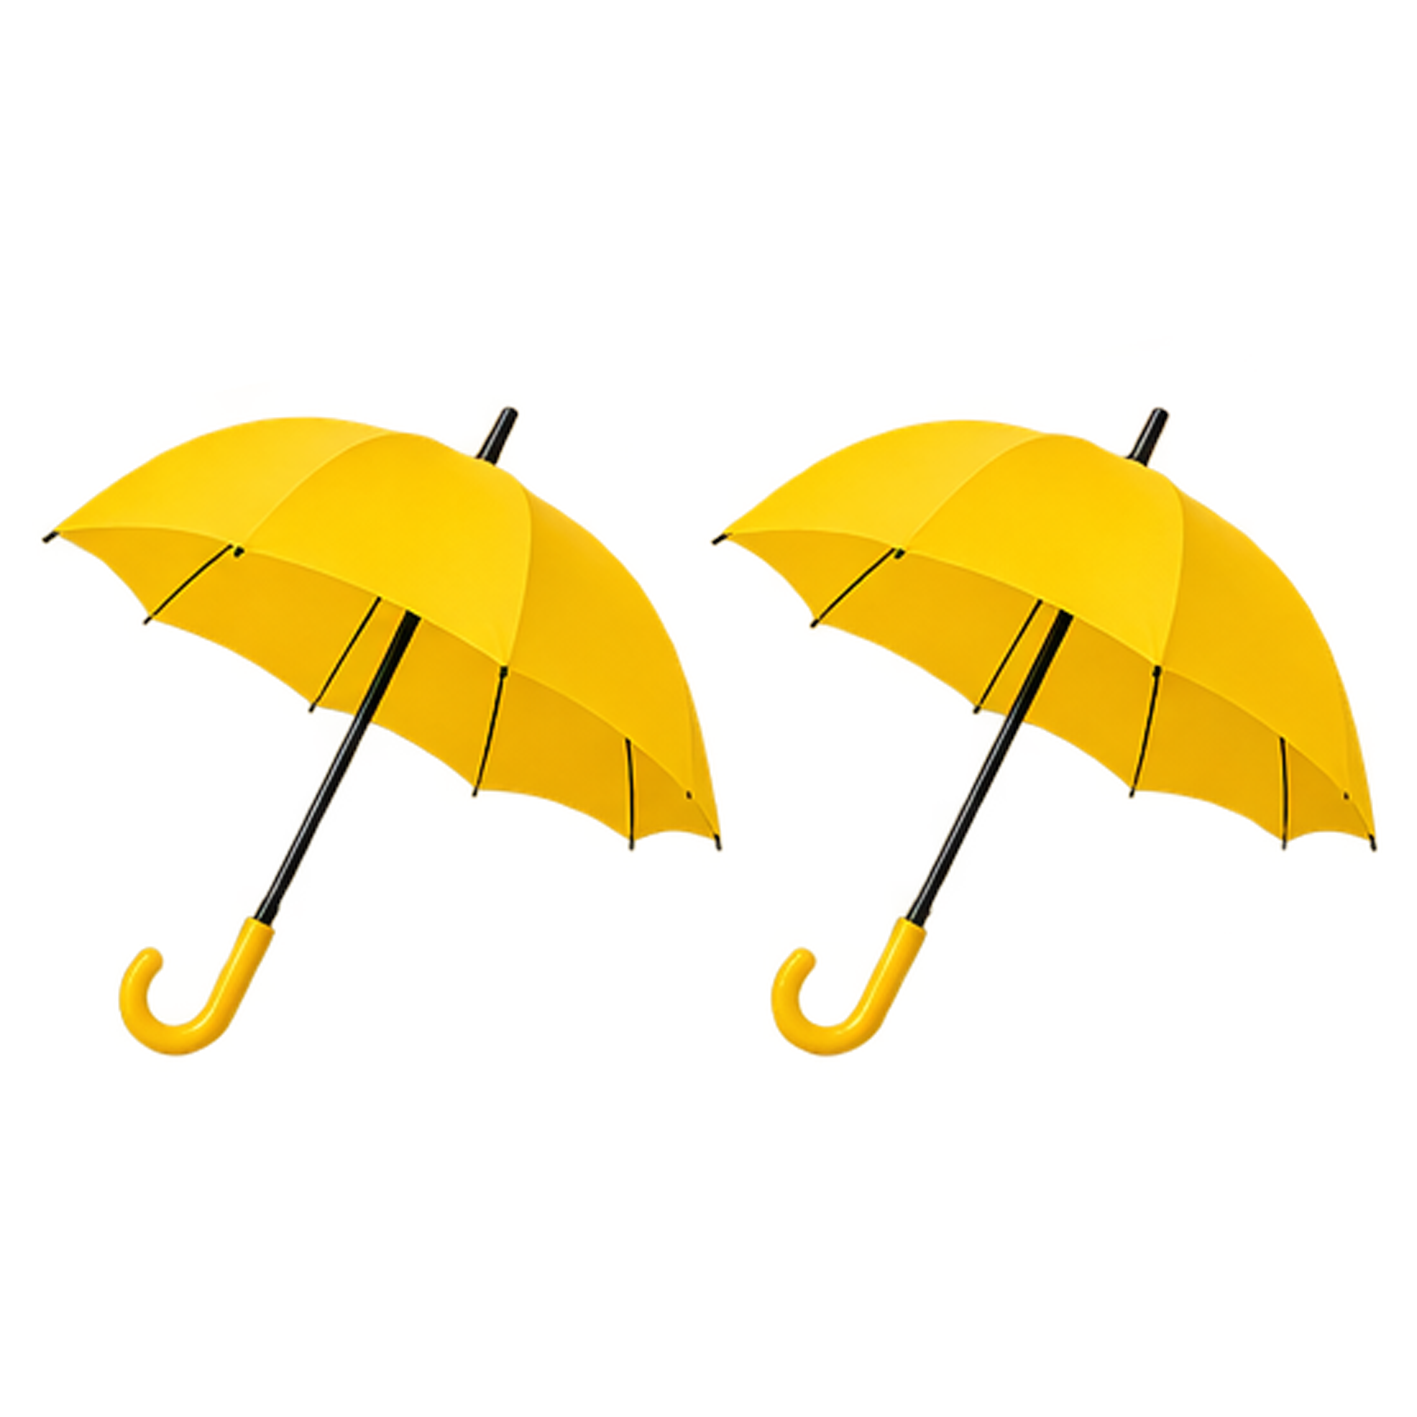
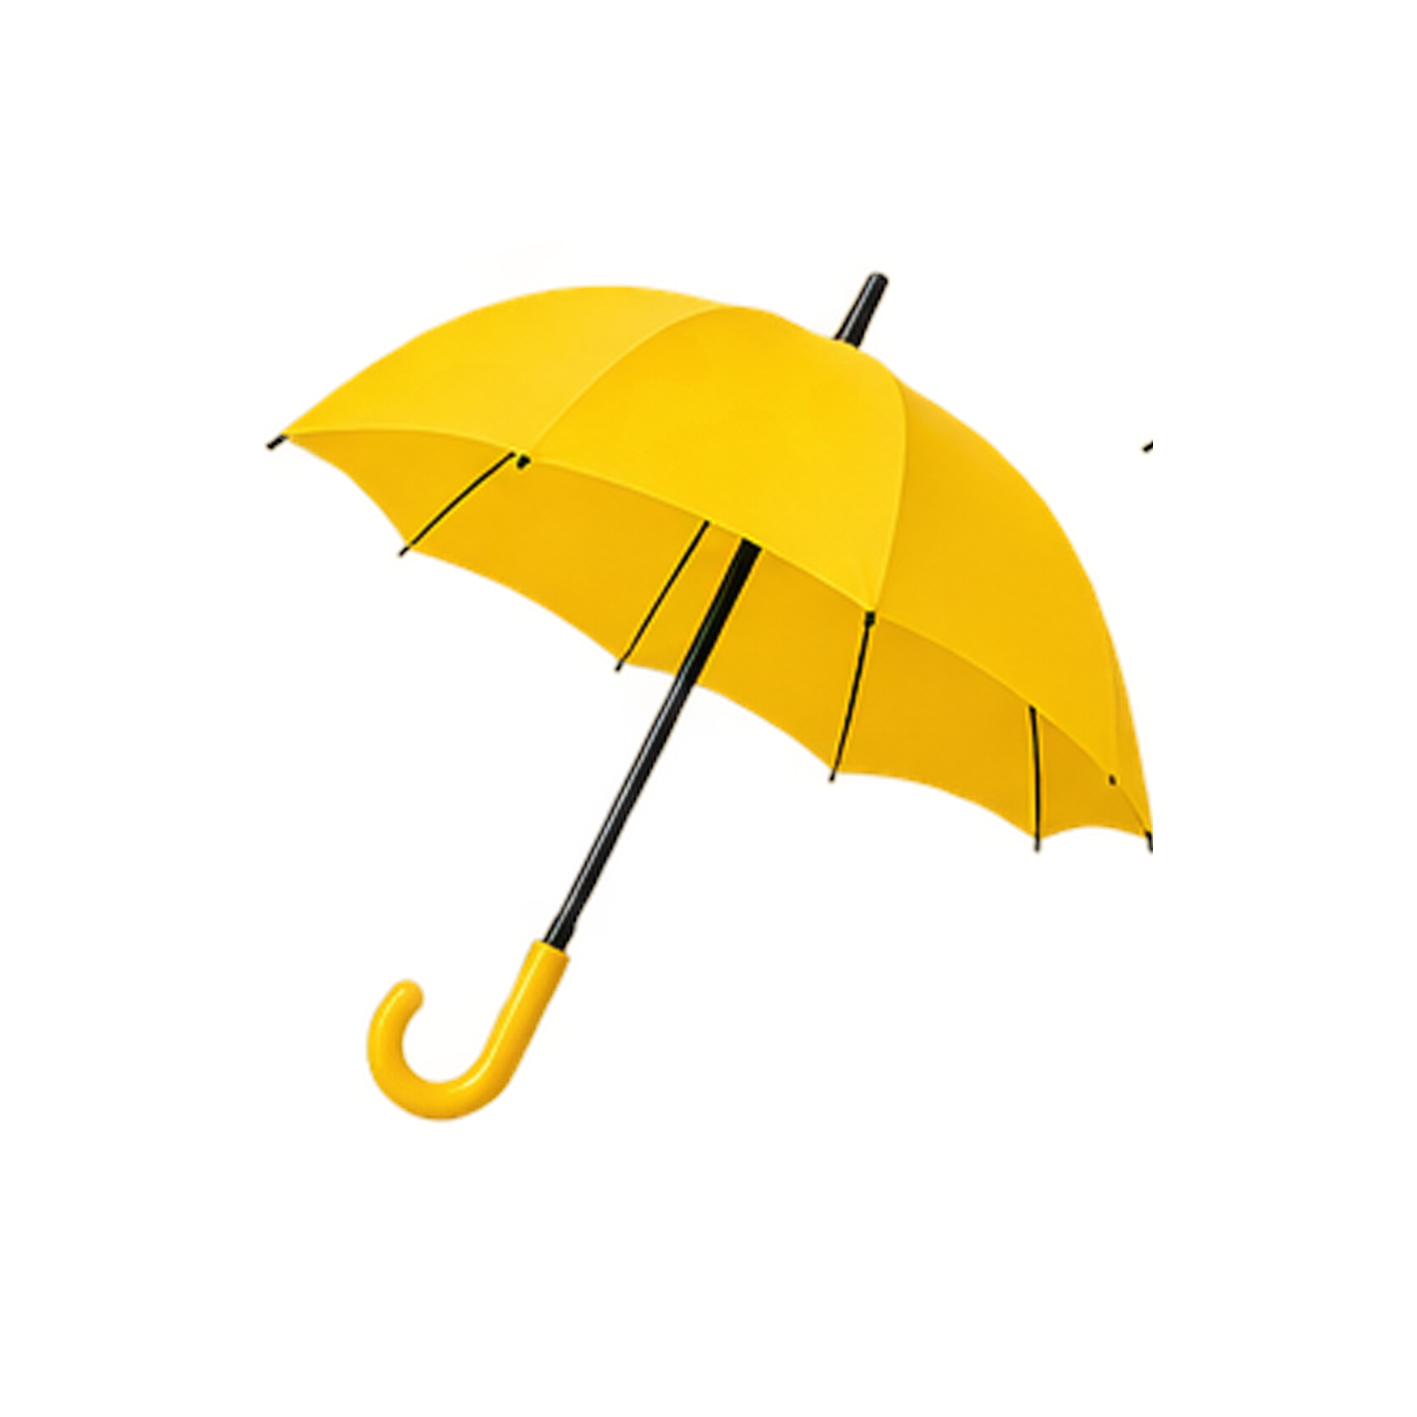
Add files via upload

Changed region(s): [[0.0311, 0.1863, 0.9936, 0.8073], [0.0621, 0.59, 0.2174, 0.7452]]

diff --git a/learningarcade/vocabulary/colors/say-color/script.js b/learningarcade/vocabulary/colors/say-color/script.js
@@ -3,16 +3,16 @@
 
   // Level 1 — single color words (solid color pictures)
   const WORD_ITEMS = [
-    { id: "black", answers: ["black"], img: "../images/black.png", audio: "../audio/black.mp3" },
-    { id: "blue", answers: ["blue"], img: "../images/blue.png", audio: "../audio/blue.mp3" },
-    { id: "brown", answers: ["brown"], img: "../images/brown.png", audio: "../audio/brown.mp3" },
-    { id: "green", answers: ["green"], img: "../images/green.png", audio: "../audio/green.mp3" },
-    { id: "grey", answers: ["grey", "gray"], img: "../images/grey.png", audio: "../audio/grey.mp3" },
-    { id: "orange", answers: ["orange"], img: "../images/orange.png", audio: "../audio/orange.mp3" },
-    { id: "pink", answers: ["pink"], img: "../images/pink.png", audio: "../audio/pink.mp3" },
-    { id: "red", answers: ["red"], img: "../images/red.png", audio: "../audio/red.mp3" },
-    { id: "white", answers: ["white"], img: "../images/white.png", audio: "../audio/white.mp3" },
-    { id: "yellow", answers: ["yellow"], img: "../images/yellow.png", audio: "../audio/yellow.mp3" },
+    { id: "black", answers: ["black"], img: "../images/black.png", say: "black" },
+    { id: "blue", answers: ["blue"], img: "../images/blue.png", say: "blue" },
+    { id: "brown", answers: ["brown"], img: "../images/brown.png", say: "brown" },
+    { id: "green", answers: ["green"], img: "../images/green.png", say: "green" },
+    { id: "grey", answers: ["grey", "gray"], img: "../images/grey.png", say: "grey" },
+    { id: "orange", answers: ["orange"], img: "../images/orange.png", say: "orange" },
+    { id: "pink", answers: ["pink"], img: "../images/pink.png", say: "pink" },
+    { id: "red", answers: ["red"], img: "../images/red.png", say: "red" },
+    { id: "white", answers: ["white"], img: "../images/white.png", say: "white" },
+    { id: "yellow", answers: ["yellow"], img: "../images/yellow.png", say: "yellow" },
   ];
 
   // Level 2 — full sentences (object pictures from What is it?)
@@ -20,8 +20,8 @@
   const SENTENCE_ITEMS = [
     {
       id: "black",
+      say: "It's a black bag.",
       img: "../what-is-it/images/black.png",
-      audio: "../audio/black.mp3",
       prompt: "What is it?",
       cue: "It's a …",
       answers: [
@@ -33,8 +33,8 @@
     },
     {
       id: "blue",
+      say: "They're blue keys.",
       img: "../what-is-it/images/blue.png",
-      audio: "../audio/blue.mp3",
       prompt: "What are they?",
       cue: "They're …",
       answers: [
@@ -45,8 +45,8 @@
     },
     {
       id: "brown",
+      say: "They're brown eggs.",
       img: "../what-is-it/images/brown.png",
-      audio: "../audio/brown.mp3",
       prompt: "What are they?",
       cue: "They're …",
       answers: [
@@ -57,8 +57,8 @@
     },
     {
       id: "green",
+      say: "They're green pencils.",
       img: "../what-is-it/images/green.png",
-      audio: "../audio/green.mp3",
       prompt: "What are they?",
       cue: "They're …",
       answers: [
@@ -69,8 +69,8 @@
     },
     {
       id: "grey",
+      say: "It's a grey chair.",
       img: "../what-is-it/images/grey.png",
-      audio: "../audio/grey.mp3",
       prompt: "What is it?",
       cue: "It's a …",
       answers: [
@@ -86,8 +86,8 @@
     },
     {
       id: "orange",
+      say: "It's an orange watch.",
       img: "../what-is-it/images/orange.png",
-      audio: "../audio/orange.mp3",
       prompt: "What is it?",
       cue: "It's an …",
       answers: [
@@ -102,8 +102,8 @@
     },
     {
       id: "pink",
+      say: "It's a pink phone.",
       img: "../what-is-it/images/pink.png",
-      audio: "../audio/pink.mp3",
       prompt: "What is it?",
       cue: "It's a …",
       answers: [
@@ -115,8 +115,8 @@
     },
     {
       id: "red",
+      say: "It's a red car.",
       img: "../what-is-it/images/red.png",
-      audio: "../audio/red.mp3",
       prompt: "What is it?",
       cue: "It's a …",
       answers: [
@@ -128,8 +128,8 @@
     },
     {
       id: "white",
+      say: "It's a white bicycle.",
       img: "../what-is-it/images/white.png",
-      audio: "../audio/white.mp3",
       prompt: "What is it?",
       cue: "It's a …",
       answers: [
@@ -145,8 +145,8 @@
     },
     {
       id: "yellow",
+      say: "It's a yellow umbrella.",
       img: "../what-is-it/images/yellow.png",
-      audio: "../audio/yellow.mp3",
       prompt: "What is it?",
       cue: "It's a …",
       answers: [
@@ -172,7 +172,6 @@
   let correct = 0;
   let attempts = 0;
   let locked = false;
-  let currentAudio = null;
   let recognition = null;
   let listening = false;
 
@@ -272,25 +271,33 @@
     el.classList.toggle("listening", !!listeningState);
   }
 
-  function playSrc(src) {
+  function stopSpeech() {
+    try {
+      if (window.speechSynthesis) window.speechSynthesis.cancel();
+    } catch (e) {}
     const btn = $("playAudioBtn");
-    if (currentAudio) {
-      try {
-        currentAudio.pause();
-      } catch (e) {}
-      currentAudio = null;
-    }
     if (btn) btn.classList.remove("is-playing");
-    const a = new Audio(src);
-    currentAudio = a;
+  }
+
+  /** Speak the model answer (word or full sentence) via browser TTS */
+  function speakItem(item) {
+    const btn = $("playAudioBtn");
+    stopSpeech();
+    if (!item) return;
+    const text = item.say || (item.answers && item.answers[0]) || item.id || "";
+    if (!text || !window.speechSynthesis) return;
+
+    const u = new SpeechSynthesisUtterance(text);
+    u.lang = "en-US";
+    u.rate = 0.92;
     if (btn) btn.classList.add("is-playing");
-    a.play().catch(() => {
+    u.onend = function () {
       if (btn) btn.classList.remove("is-playing");
-    });
-    a.onended = () => {
-      if (btn) btn.classList.remove("is-playing");
-      if (currentAudio === a) currentAudio = null;
     };
+    u.onerror = function () {
+      if (btn) btn.classList.remove("is-playing");
+    };
+    window.speechSynthesis.speak(u);
   }
 
   function stopListening() {
@@ -418,14 +425,14 @@
       setMicHint("Great!", false);
       if ($("scoreText")) $("scoreText").textContent = String(score);
       if ($("correctText")) $("correctText").textContent = String(correct);
-      playSrc(item.audio);
+      speakItem(item);
       setTimeout(() => {
         idx++;
         if (idx >= order.length) finish();
         else render();
       }, 1200);
     } else {
-      setFb("Not quite — try again or hear it 🔊", "bad");
+      setFb("Not quite — try again or tap 🔊 to hear it", "bad");
       setMicHint("Tap the mic and try again", false);
       setTimeout(() => {
         locked = false;
@@ -555,7 +562,7 @@
   }
   if (playAudioBtn) {
     playAudioBtn.addEventListener("click", () => {
-      if (order.length && order[idx] != null) playSrc(items[order[idx]].audio);
+      if (order.length && order[idx] != null) speakItem(items[order[idx]]);
     });
   }
   if (skipBtn) skipBtn.addEventListener("click", skip);

diff --git a/learningarcade/vocabulary/colors/say-color/index.html b/learningarcade/vocabulary/colors/say-color/index.html
@@ -241,7 +241,7 @@
     <ul class="feature-list">
       <li>10 items · speech recognition</li>
       <li>Words or full sentences</li>
-      <li>Hear the word when you get it right</li>
+      <li>Hear the answer spoken after a correct try</li>
     </ul>
     <div id="supportNote" class="unsupported-banner" hidden>
       <strong>Mic not available in this browser.</strong>
@@ -275,7 +275,7 @@
     </div>
     <div id="feedback" class="feedback" role="status" aria-live="polite"></div>
     <div class="say-actions">
-      <button type="button" id="playAudioBtn" class="audio-pill dict-audio-btn" aria-label="Hear the word" title="Hear the word">
+      <button type="button" id="playAudioBtn" class="audio-pill dict-audio-btn" aria-label="Hear the answer" title="Hear the answer">
         <svg class="audio-speaker" viewBox="0 0 24 24" width="22" height="22" fill="currentColor" aria-hidden="true"><path d="M3 9v6h4l5 5V4L7 9H3z"/></svg>
         <span class="audio-bars" aria-hidden="true"><i></i><i></i><i></i><i></i></span>
       </button>
